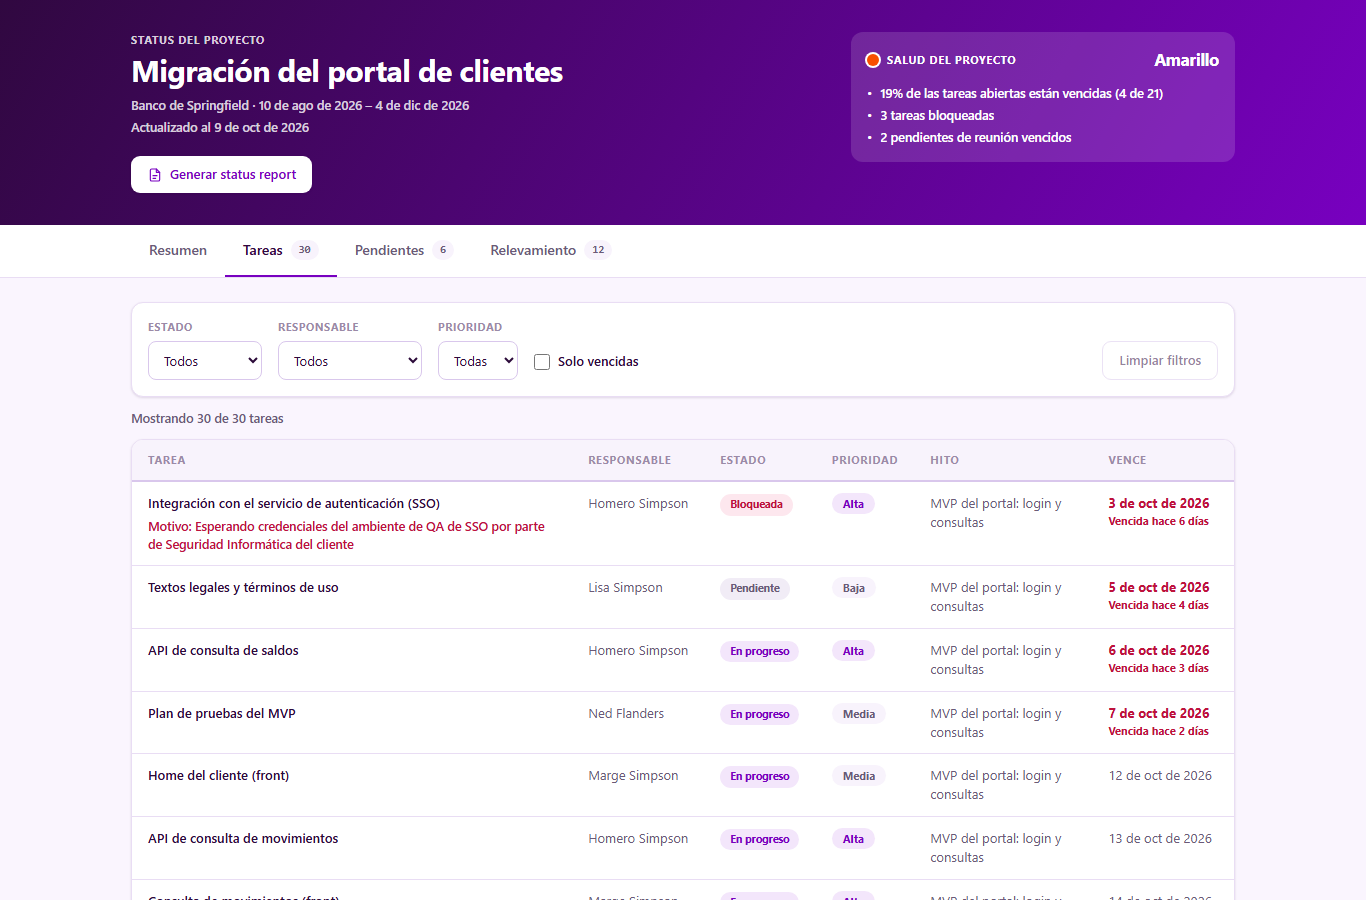
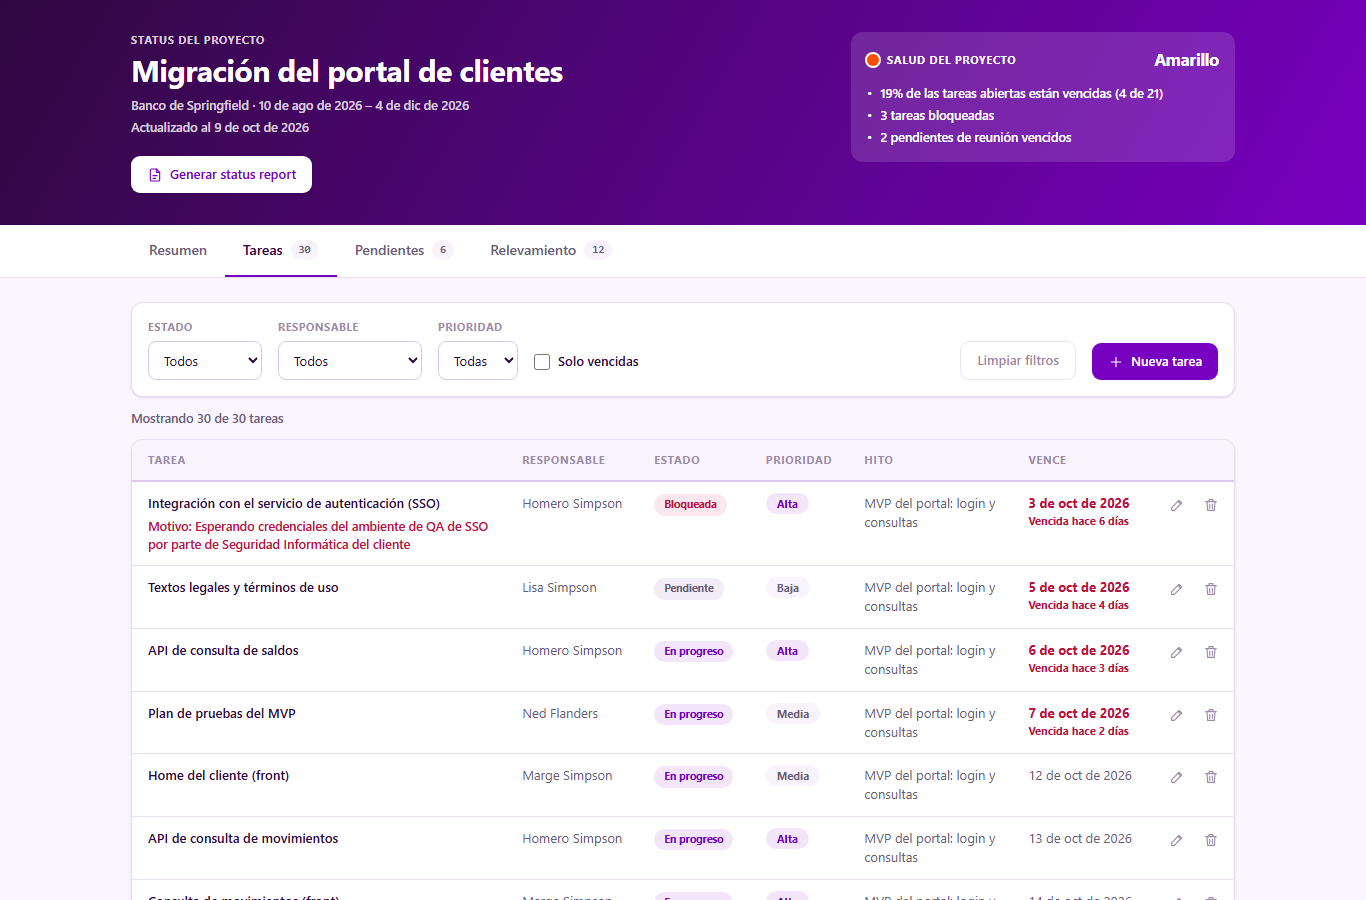
docs: document task CRUD and update scope

diff --git a/docs/SPEC.md b/docs/SPEC.md
@@ -13,9 +13,9 @@ Usuario principal: el PM del proyecto. Lectores del reporte: sponsors y gerencia
 
 ## 2. Alcance
 
-**Incluido:** un proyecto con datos de prueba, KPIs, semáforo, gráfico, hitos, vistas de tareas, pendientes y relevamiento, y la generación del reporte (con IA opcional y plantilla de respaldo).
+**Incluido:** un proyecto con datos de prueba, KPIs, semáforo, gráfico, hitos, vistas de tareas, pendientes y relevamiento, ABM de tareas guardado en el navegador, y la generación del reporte (con IA opcional y plantilla de respaldo).
 
-**Fuera de alcance:** login y usuarios, base de datos, ABM de tareas, integraciones reales (Jira, Trello, etc.), notificaciones y multi-tenant.
+**Fuera de alcance:** login y usuarios, base de datos, ABM de pendientes, ítems relevados e hitos, integraciones reales (Jira, Trello, etc.), notificaciones y multi-tenant.
 
 ## 3. Modelo de datos
 
@@ -68,16 +68,27 @@ Los umbrales (`RED_OVERDUE_PCT`, `YELLOW_OVERDUE_PCT`) son constantes en `metric
 - **Header:** nombre del proyecto, cliente, fechas, fecha de actualización, semáforo con motivos y el botón "Generar status report".
 - **Pestañas** (en la URL: `?tab=resumen|tareas|pendientes|relevamiento`):
   - **Resumen:** tarjetas de KPIs, gráfico de tareas por estado e hitos (el próximo hito destacado, con su estado y avance).
-  - **Tareas:** tabla con filtros por estado, responsable, prioridad y "Solo vencidas". Primero las abiertas por vencimiento y al final las completadas. Las vencidas muestran "Vencida hace N días" en rojo; las bloqueadas, su motivo.
+  - **Tareas:** tabla con filtros por estado, responsable, prioridad y "Solo vencidas". Primero las abiertas por vencimiento y al final las completadas. Las vencidas muestran "Vencida hace N días" en rojo; las bloqueadas, su motivo. Incluye el ABM (ver sección 6.1).
   - **Pendientes:** agrupados por reunión (la más reciente primero), con estado Abierto / Vencido / Hecho.
   - **Relevamiento:** agrupado en Riesgos, Hallazgos y Requerimientos; primero los abiertos y de mayor impacto.
 - **Panel del reporte:** muestra el Markdown renderizado, la fuente (IA o plantilla) y el tiempo de generación. Permite copiar, descargar (`status-report-AAAA-MM-DD.md`), imprimir o guardar como PDF (al imprimir solo sale el reporte, con el nombre de archivo `status-report-AAAA-MM-DD`) y regenerar.
+
+### 6.1 ABM de tareas
+
+- **Alta:** botón "Nueva tarea" en la barra de filtros. **Edición** y **baja:** íconos al final de cada fila; la baja pide confirmación.
+- **Formulario** (modal): título, responsable (con sugerencias de los existentes, o uno nuevo), vence, estado, prioridad, hito y, si el estado es "Bloqueada", el motivo.
+- **Validación** ([`src/lib/tasks.ts`](../src/lib/tasks.ts)): título (máx. 120), responsable (máx. 60), fecha válida y hito existente son obligatorios; el motivo es obligatorio si la tarea está bloqueada (máx. 300) y se descarta si no lo está.
+- **Persistencia:** solo en el navegador (`localStorage`, clave `status-board:tasks:v1`). No se comparte entre navegadores ni dispositivos. Si lo guardado no es válido, se ignora y se muestran los datos de demo.
+- Con cambios guardados, un aviso lo indica y ofrece **"Restablecer datos de demo"** (con confirmación).
+- KPIs, semáforo, hitos y contador de la pestaña se recalculan al instante. Las fechas de las tareas editadas quedan fijas (no se corren con el día, a diferencia de las de demo).
 
 ## 7. Status report
 
 ### Contrato
 
-`POST /api/report` (sin cuerpo) → `200 { markdown: string, source: "ai" | "template" }`
+`POST /api/report` → `200 { markdown: string, source: "ai" | "template" }`
+
+Cuerpo opcional: `{ tasks: Task[] }` con las tareas del navegador (el panel siempre lo envía). Sin cuerpo se usan las tareas de demo. Si `tasks` no es válido (misma validación que el formulario, máximo 300 tareas) responde `400 { error }`. Hitos, pendientes e ítems relevados siempre salen de los datos del servidor.
 
 ### Contenido
 

diff --git a/README.md b/README.md
@@ -20,6 +20,7 @@ El PM abre el tablero y en un vistazo ve la salud del proyecto:
 - **KPIs:** % de avance, tareas vencidas, bloqueadas, pendientes abiertos y riesgos abiertos.
 - **Gráfico** de tareas por estado e **hitos** con su avance, el próximo hito y los días que faltan.
 - **Tareas** con filtros por estado, responsable y prioridad. Las vencidas se marcan en rojo y las bloqueadas muestran su motivo.
+- **ABM de tareas:** crear, editar y eliminar tareas desde el tablero. Los KPIs y el semáforo se actualizan al instante. Los cambios se guardan en el navegador y se pueden descartar con "Restablecer datos de demo".
 - **Pendientes** de reunión agrupados por reunión, y **relevamiento** (riesgos, hallazgos y requerimientos) con su impacto y estado.
 - **"Generar status report":** arma el reporte ejecutivo con 5 secciones (estado general, avance y logros, próximos pasos, riesgos y bloqueos, decisiones requeridas), listo para copiar, descargar en Markdown o imprimir / guardar como PDF.
 
@@ -74,14 +75,17 @@ La key se obtiene en la [Claude Console](https://platform.claude.com) (Settings 
 - **Next.js 15** (App Router) + **TypeScript** + **Tailwind CSS 4**
 - **Recharts** para el gráfico; **react-markdown** + **remark-gfm** para mostrar el reporte
 - **@anthropic-ai/sdk** para la generación con IA (solo del lado del servidor; la key nunca llega al navegador)
-- Sin base de datos: los datos de prueba están en [`src/data/proyecto-demo.json`](src/data/proyecto-demo.json). Las fechas se corren respecto del día actual, así que siempre hay tareas vencidas y próximas.
+- Sin base de datos: los datos de prueba están en [`src/data/proyecto-demo.json`](src/data/proyecto-demo.json). Las fechas se corren respecto del día actual, así que siempre hay tareas vencidas y próximas. Las tareas editadas se guardan en el `localStorage` del navegador.
 - Estética basada en el design system de Flock (paleta, tipografía y componentes)
 
 ```
 src/
   app/page.tsx              # tablero con pestañas (?tab=resumen|tareas|pendientes|relevamiento)
   app/api/report/route.ts   # POST: status report (IA o plantilla)
-  components/               # KPIs, semáforo, gráfico, hitos, tabla, listas, panel del reporte
+  components/               # Dashboard (estado del cliente), KPIs, semáforo, gráfico, hitos, tabla,
+                            # formulario de tarea, modal, listas y panel del reporte
+  lib/tasks.ts              # validación de tareas (formulario y endpoint)
+  lib/use-tasks.ts          # ABM de tareas guardado en el navegador
   lib/metrics.ts            # KPIs y semáforo (funciones puras)
   lib/report-summary.ts     # resumen estructurado que usan la plantilla y el prompt
   lib/report-template.ts    # reporte sin IA
@@ -93,7 +97,7 @@ La especificación funcional (modelo de datos, KPIs, reglas del semáforo y cont
 ## Próximos pasos
 
 - **Integraciones reales** con Jira, Trello o Azure DevOps para las tareas, y con las minutas de reunión para los pendientes.
-- **Persistencia** (base de datos) y **ABM de tareas**, pendientes e ítems relevados desde el tablero.
+- **Persistencia compartida** (base de datos) para que los cambios de tareas se vean en todos los navegadores, y **ABM de pendientes, ítems relevados e hitos**.
 - **Login y usuarios**, con vistas por rol (PM, sponsor, equipo) y **multi-proyecto / multi-cliente**.
 - **Fecha real de cierre** de cada tarea, para que "logros del período" no dependa de la fecha de vencimiento.
 - **Historial de reportes** y envío programado por mail o Teams.

diff --git a/CLAUDE.md b/CLAUDE.md
@@ -23,7 +23,7 @@ genera el status report ejecutivo con un clic.
 - Next.js (App Router) + TypeScript + Tailwind CSS
 - Recharts para gráficos
 - `@anthropic-ai/sdk` para generar el reporte
-- Sin base de datos: datos en `src/data/proyecto-demo.json`
+- Sin base de datos: datos en `src/data/proyecto-demo.json` (las tareas editadas se guardan en el navegador)
 - Deploy: Vercel
 
 ## Comandos
@@ -126,9 +126,16 @@ Lógica:
 - Botón destacado "Generar status report" que abre ReportPanel (copiar / descargar .md).
 - Responsive y prolijo, sin sobrediseñar.
 
+## ABM de tareas (agregado después del MVP)
+- Alta, edición y baja de **tareas** desde la pestaña Tareas, con formulario en modal y confirmación al eliminar.
+- Persistencia **solo en el navegador** (localStorage, clave `status-board:tasks:v1`) + botón "Restablecer datos de demo".
+- Métricas y semáforo se recalculan en el cliente (`components/Dashboard.tsx`, `lib/use-tasks.ts`).
+- Validación compartida en `lib/tasks.ts`; `/api/report` recibe `{ tasks }` opcional y responde 400 si no es válido.
+- Hitos, pendientes e ítems relevados siguen siendo de solo lectura.
+
 ## Fuera de alcance
-Login/usuarios, base de datos, CRUD de tareas, integraciones reales (Jira, Trello, etc.),
-notificaciones, multi-tenant. Van a "Próximos pasos" en el README.
+Login/usuarios, base de datos, ABM de pendientes, ítems relevados e hitos, integraciones reales
+(Jira, Trello, etc.), notificaciones, multi-tenant. Van a "Próximos pasos" en el README.
 
 ## Plan de implementación
 - [x] 1. `types.ts` + `proyecto-demo.json` + `data.ts`
